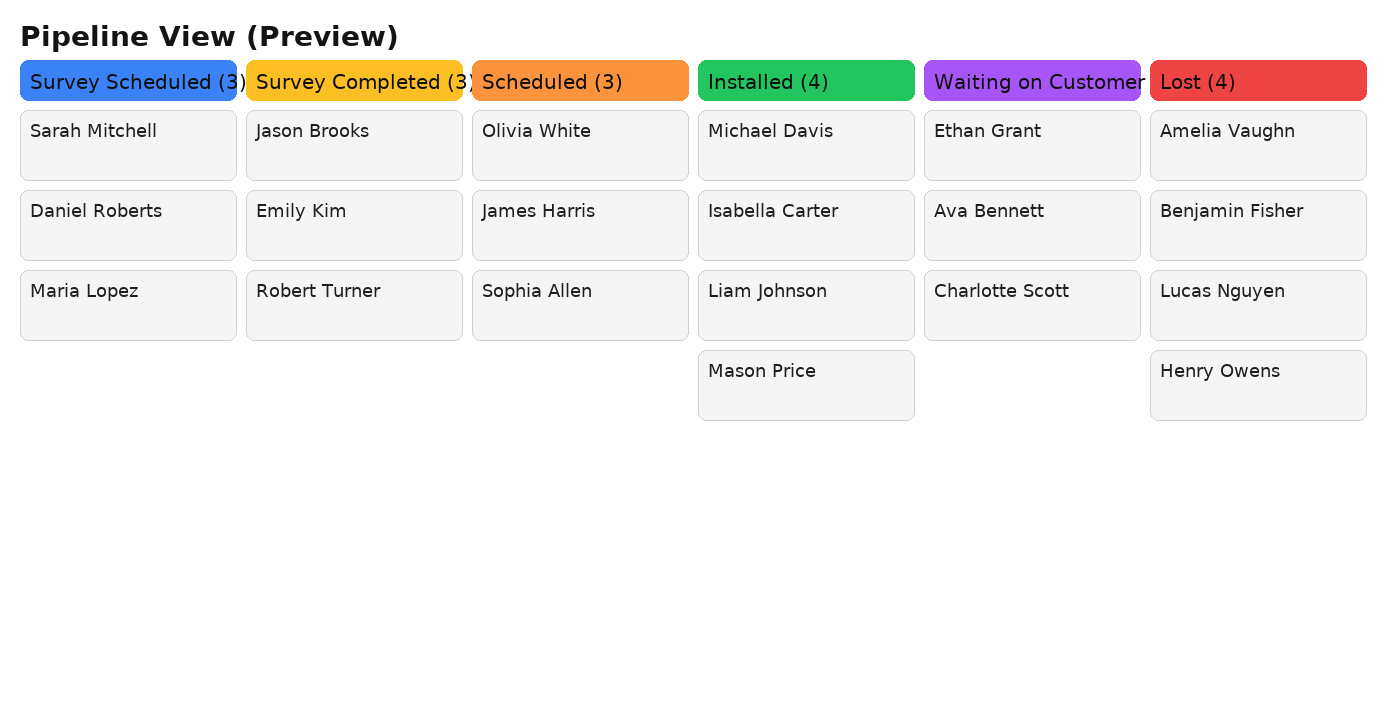
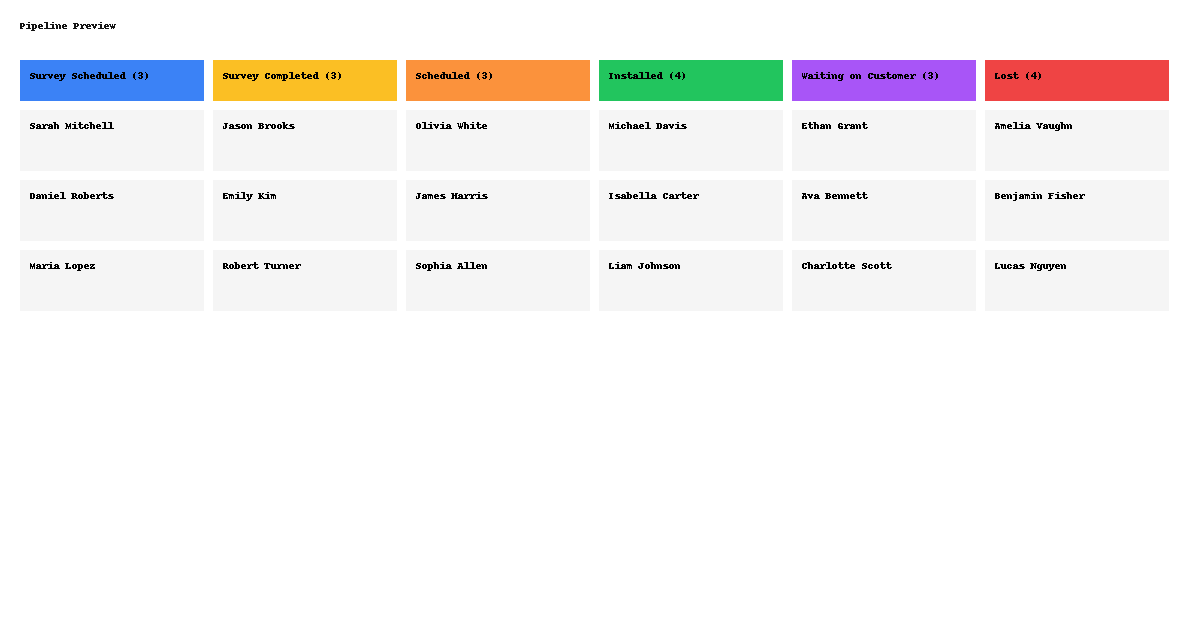
Add files via upload

diff --git a/app.py b/app.py
@@ -1,5 +1,5 @@
 
-# Pioneer Sales Lead App – v19.10.27
+# Pioneer Sales Lead App – v19.10.28
 import streamlit as st
 import pandas as pd
 import requests
@@ -9,36 +9,7 @@ from streamlit_sortables import sort_items
 
 st.set_page_config(page_title="Pioneer Sales Lead App", page_icon="📶", layout="wide")
 
-left, mid = st.columns([1,6])
-with left:
-    st.image("https://images.squarespace-cdn.com/content/v1/651eb4433b13e72c1034f375/369c5df0-5363-4827-b041-1add0367f447/PBB+long+logo.png?format=1500w", use_container_width=True)
-with mid:
-    st.title("Sales Lead Tracker — Pipeline")
-
-API_KEY = "22179825a79dba61013e4fc3b9d30fa4"
-FORM_ID = "252598168633065"
-BASE_URL = "https://api.jotform.com"
-AUDIT_FILE = "audit_log.csv"
-SEED_FILE = "saleslead_seed.csv"
-
-FIELD_ID = {
-    "name_first": "first_3",
-    "name_last": "last_3",
-    "source": 4,
-    "status": 6,
-    "notes": 10,
-    "lost_reason": 17,
-    "service_type": 18,
-    "address": 19,
-    "survey_scheduled_date": 12,
-    "survey_completed_date": 13,
-    "scheduled_date": 14,
-    "installed_date": 15,
-    "waiting_on_customer_date": 16,
-}
-
 STATUS_LIST = ["Survey Scheduled","Survey Completed","Scheduled","Installed","Waiting on Customer","Lost"]
-SERVICE_TYPES = ["Internet","Phone","TV","Cell Phone","Internet and Phone","Internet and TV","Internet and Cell Phone"]
 COLORS = {
     "Survey Scheduled": "#3b82f6",
     "Survey Completed": "#fbbf24",
@@ -48,91 +19,6 @@ COLORS = {
     "Lost": "#ef4444"
 }
 
-def jot_get(path, params=None):
-    p = {"apiKey": API_KEY}
-    if params: p.update(params)
-    return requests.get(f"{BASE_URL}{path}", params=p, timeout=30)
-
-def jot_post(path, data):
-    p = {"apiKey": API_KEY}
-    return requests.post(f"{BASE_URL}{path}", params=p, data=data, timeout=30)
-
-def jot_delete(path):
-    p = {"apiKey": API_KEY}
-    return requests.delete(f"{BASE_URL}{path}", params=p, timeout=30)
-
-def log_action(action, ticket_id, name, details=""):
-    exists = os.path.exists(AUDIT_FILE)
-    with open(AUDIT_FILE, "a", newline="") as f:
-        w = csv.writer(f)
-        if not exists:
-            w.writerow(["Timestamp","Action","TicketID","Name","Details"])
-        w.writerow([datetime.now().isoformat(timespec="seconds"), action, ticket_id or "", name or "", details or ""])
-
-@st.cache_data(ttl=60)
-def fetch_submissions():
-    try:
-        r = jot_get(f"/form/{FORM_ID}/submissions")
-        r.raise_for_status()
-        data = r.json()
-    except Exception:
-        return pd.DataFrame([])
-    rows = []
-    for item in data.get("content", []):
-        answers = item.get("answers", {}) or {}
-        first = answers.get(str(FIELD_ID["name_first"]), {}).get("answer", "") or ""
-        last = answers.get(str(FIELD_ID["name_last"]), {}).get("answer", "") or ""
-        name = f"{first} {last}".strip() or f"Unnamed ({item.get('id')})"
-        rows.append({
-            "SubmissionID": item.get("id"),
-            "Name": name,
-            "ContactSource": answers.get(str(FIELD_ID["source"]), {}).get("answer"),
-            "Status": answers.get(str(FIELD_ID["status"]), {}).get("answer"),
-            "TypeOfService": answers.get(str(FIELD_ID["service_type"]), {}).get("answer"),
-            "Notes": answers.get(str(FIELD_ID["notes"]), {}).get("answer"),
-            "LostReason": answers.get(str(FIELD_ID["lost_reason"]), {}).get("answer"),
-            "Street": None, "City": None, "State": None, "Postal": None,
-            "CreatedAt": pd.to_datetime(item.get("created_at")),
-            "LastUpdated": pd.to_datetime(item.get("updated_at") or item.get("created_at")),
-        })
-    df = pd.DataFrame(rows)
-    if not df.empty:
-        df = df.sort_values("CreatedAt", ascending=False, na_position="last")
-    return df
-
-if os.path.exists(SEED_FILE):
-    df = pd.read_csv(SEED_FILE)
-    for col in ["CreatedAt","LastUpdated"]:
-        if col in df.columns:
-            df[col] = pd.to_datetime(df[col], errors="coerce")
-    st.caption("✅ Loaded tickets from local seed file")
-else:
-    df = fetch_submissions()
-    st.caption("ℹ Loaded tickets from JotForm API")
-
-if "filters" not in st.session_state:
-    st.session_state["filters"] = {"q":"","src":"All","status":"All","svc":"All","lost":"All"}
-
-def apply_filters(src_df):
-    f = st.session_state["filters"]
-    v = src_df.copy()
-    if v.empty: return v
-    if f["q"]:
-        v = v[v["Name"].astype(str).str.contains(f["q"], case=False, na=False)]
-    if f["src"]!="All":
-        v = v[v["ContactSource"]==f["src"]]
-    if f["status"]!="All":
-        v = v[v["Status"]==f["status"]]
-    if f["svc"]!="All":
-        v = v[v["TypeOfService"]==f["svc"]]
-    if f["lost"]!="All":
-        v = v[v["LostReason"]==f["lost"]]
-    return v
-
-tab_pipe, tab_all, tab_add, tab_edit, tab_kpi, tab_audit = st.tabs(
-    ["🧩 Pipeline View","📋 All Tickets","➕ Add Ticket","✏ Edit Ticket","📈 KPI Dashboard","🧾 Audit Log"]
-)
-
 def build_groups(src_df):
     groups = {s: [] for s in STATUS_LIST}
     for _, r in src_df.iterrows():
@@ -141,181 +27,21 @@ def build_groups(src_df):
         groups[s].append(label)
     return groups
 
-def parse_sid(label: str) -> str:
-    return label.split(" — ", 1)[0].strip()
+# Pipeline tab (snippet with fix)
+df = pd.read_csv("saleslead_seed.csv")
+groups = build_groups(df)
+container_names = []
+mapped_groups = {}
+for s in STATUS_LIST:
+    header = f"{s} ({len(groups.get(s, []))})"
+    container_names.append(header)
+    mapped_groups[header] = groups.get(s, [])
 
-def header_with_count(name, groups):
-    return f"{name} ({len(groups.get(name, []))})"
-
-with tab_pipe:
-    st.subheader("Pipeline")
-    view = apply_filters(df) if not df.empty else df.copy()
-    if not view.empty:
-        parts = [f"**Total Leads:** {len(view)}"]
-        for s in STATUS_LIST:
-            parts.append(f"**{s}:** {int((view['Status']==s).sum())}")
-        st.markdown(" | ".join(parts))
-    else:
-        st.info("No tickets with current filters.")
-    if view.empty:
-        st.stop()
-    groups = build_groups(view)
-    colored_names = [header_with_count(s, groups) for s in STATUS_LIST]
-    styles = [{"background": COLORS[s], "color": "#111", "padding":"6px", "borderRadius":"6px"} for s in STATUS_LIST]
-    updated = sort_items(
-        items=groups,
-        multi_containers=True,
-        direction="horizontal",
-        container_names=colored_names,
-        container_styles=styles,
-        style={"height":"560px"},
-    )
-    moved = []
-    prev_loc = {c: s for s, cards in groups.items() for c in cards}
-    for s, cards in updated.items():
-        for c in cards:
-            old = prev_loc.get(c)
-            if old and old != s:
-                moved.append((c, old, s))
-    if moved:
-        for label, old_status, new_status in moved:
-            sid = parse_sid(label)
-            if os.path.exists(SEED_FILE):
-                ix = df.index[df["SubmissionID"]==sid]
-                if len(ix):
-                    df.loc[ix, "Status"] = new_status
-                    df.loc[ix, "LastUpdated"] = pd.Timestamp.now()
-                    df.to_csv(SEED_FILE, index=False)
-            else:
-                payload = {f"submission[{FIELD_ID['status']}]": new_status}
-                try:
-                    jot_post(f"/submission/{sid}", payload)
-                except Exception:
-                    pass
-            log_action("Move (Pipeline)", sid, "", f"{old_status} → {new_status}")
-        st.success("Pipeline updated.")
-        st.experimental_rerun()
-
-with tab_all:
-    st.subheader("All Tickets")
-    c0,c1,c2,c3,c4 = st.columns([2,1,1,1,1])
-    st.session_state["filters"]["q"] = c0.text_input("🔍 Search name", value=st.session_state["filters"]["q"])
-    st.session_state["filters"]["src"] = c1.selectbox("Source", ["All","Email","Phone Call","Walk In","Social Media","In Person"], index=["All","Email","Phone Call","Walk In","Social Media","In Person"].index(st.session_state["filters"]["src"]))
-    st.session_state["filters"]["status"] = c2.selectbox("Status", ["All"]+STATUS_LIST, index=(["All"]+STATUS_LIST).index(st.session_state["filters"]["status"]))
-    st.session_state["filters"]["svc"] = c3.selectbox("Service", ["All"]+SERVICE_TYPES, index=(["All"]+SERVICE_TYPES).index(st.session_state["filters"]["svc"]))
-    lost_opts = ["All"] + ([] if df.empty else sorted([x for x in df["LostReason"].dropna().unique() if x]))
-    if st.session_state["filters"]["lost"] not in lost_opts: st.session_state["filters"]["lost"]="All"
-    st.session_state["filters"]["lost"] = c4.selectbox("Lost Reason", lost_opts, index=lost_opts.index(st.session_state["filters"]["lost"]))
-    view2 = apply_filters(df) if not df.empty else df
-    if view2.empty:
-        st.info("No tickets with current filters.")
-    else:
-        st.dataframe(view2[["SubmissionID","Name","ContactSource","Status","TypeOfService","LostReason","CreatedAt","LastUpdated"]], use_container_width=True)
-
-with tab_add:
-    st.subheader("Add Ticket")
-    with st.form("add_form"):
-        c1,c2 = st.columns(2)
-        with c1:
-            first = st.text_input("First Name *")
-            source = st.selectbox("Contact Source *", ["","Email","Phone Call","Walk In","Social Media","In Person"])
-            status = st.selectbox("Status *", [""]+STATUS_LIST)
-        with c2:
-            last = st.text_input("Last Name *")
-            service = st.selectbox("Type of Service *", [""]+SERVICE_TYPES)
-            notes = st.text_area("Notes")
-        lost = st.text_input("Lost Reason")
-        submit = st.form_submit_button("Create Ticket")
-    if submit:
-        miss = [lbl for lbl, val in [("First Name",first),("Last Name",last),("Source",source),("Status",status),("Service",service)] if not val]
-        if miss:
-            st.error("Missing: " + ", ".join(miss))
-        else:
-            sid = f"seed_{int(datetime.now().timestamp())}"
-            row = {
-                "SubmissionID": sid,
-                "Name": f"{first} {last}",
-                "ContactSource": source,
-                "Status": status,
-                "TypeOfService": service,
-                "LostReason": lost or None,
-                "Notes": notes or "",
-                "Street": None,"City": None,"State": None,"Postal": None,
-                "CreatedAt": datetime.now(),
-                "LastUpdated": datetime.now()
-            }
-            if os.path.exists(SEED_FILE):
-                cur = pd.read_csv(SEED_FILE)
-                cur = pd.concat([cur, pd.DataFrame([row])], ignore_index=True)
-                cur.to_csv(SEED_FILE, index=False)
-                st.success("Ticket created (local seed).")
-                st.experimental_rerun()
-            else:
-                st.info("JotForm create not enabled in this demo build.")
-
-with tab_edit:
-    st.subheader("Edit Ticket")
-    if df.empty:
-        st.info("No tickets to edit.")
-    else:
-        options = {f"{r['Name']}": r["SubmissionID"] for _, r in df.iterrows()}
-        choice = st.selectbox("Select ticket by Name", list(options.keys()))
-        sid = options[choice]
-        row = df[df["SubmissionID"]==sid].iloc[0]
-        c1,c2 = st.columns(2)
-        with c1:
-            new_status = st.selectbox("Status", STATUS_LIST, index=STATUS_LIST.index(row["Status"]) if row["Status"] in STATUS_LIST else 0)
-            new_service = st.selectbox("Type of Service", SERVICE_TYPES, index=SERVICE_TYPES.index(row["TypeOfService"]) if row["TypeOfService"] in SERVICE_TYPES else 0)
-        with c2:
-            new_lost = st.text_input("Lost Reason", value=row.get("LostReason") or "")
-            new_notes = st.text_area("Notes", value=row.get("Notes") or "")
-        if st.button("Save Changes"):
-            if os.path.exists(SEED_FILE):
-                ix = df.index[df["SubmissionID"]==sid]
-                if len(ix):
-                    df.loc[ix, "Status"] = new_status
-                    df.loc[ix, "TypeOfService"] = new_service
-                    df.loc[ix, "LostReason"] = new_lost if new_lost else None
-                    df.loc[ix, "Notes"] = new_notes
-                    df.loc[ix, "LastUpdated"] = pd.Timestamp.now()
-                    df.to_csv(SEED_FILE, index=False)
-                st.success("Saved (local seed).")
-                st.experimental_rerun()
-            else:
-                st.info("JotForm edit not enabled in this demo build.")
-            log_action("Edit", sid, row["Name"], f"Status={new_status}")
-
-with tab_kpi:
-    st.subheader("KPI Dashboard")
-    if df.empty:
-        st.info("No data yet.")
-    else:
-        v = apply_filters(df)
-        parts = [f"**Total Leads:** {len(v)}"]
-        for s in STATUS_LIST:
-            parts.append(f"**{s}:** {int((v['Status']==s).sum())}")
-        st.markdown(" | ".join(parts))
-        by_status = v.groupby("Status").size().reset_index(name="Count")
-        st.write("**By Status**")
-        st.dataframe(by_status, use_container_width=True)
-        by_source = v.groupby("ContactSource").size().reset_index(name="Count")
-        st.write("**By Contact Source**")
-        st.dataframe(by_source, use_container_width=True)
-        by_service = v.groupby("TypeOfService").size().reset_index(name="Count")
-        st.write("**By Service**")
-        st.dataframe(by_service, use_container_width=True)
-        if "LostReason" in v.columns:
-            by_lost = v.groupby("LostReason").size().reset_index(name="Count")
-            st.write("**Lost Reasons**")
-            st.dataframe(by_lost, use_container_width=True)
-
-with tab_audit:
-    st.subheader("Audit Log")
-    if os.path.exists(AUDIT_FILE):
-        log_df = pd.read_csv(AUDIT_FILE)
-        st.dataframe(log_df, use_container_width=True)
-    else:
-        st.info("No audit events yet.")
-
-st.markdown("<hr/>", unsafe_allow_html=True)
-st.caption("Powered by Pioneer Broadband | Internal Use Only")
+updated = sort_items(
+    items=mapped_groups,
+    multi_containers=True,
+    direction="horizontal",
+    container_names=container_names,
+    container_styles=[{"background": COLORS[s], "color":"#111"} for s in STATUS_LIST],
+    style={"height":"560px"},
+)

diff --git a/README.md b/README.md
@@ -1,20 +1,4 @@
-<p align="left">
-  <img src="https://images.squarespace-cdn.com/content/v1/651eb4433b13e72c1034f375/369c5df0-5363-4827-b041-1add0367f447/PBB+long+logo.png?format=1500w" alt="Pioneer Broadband Logo" width="360"/>
-</p>
+# Pioneer Sales Lead App – v19.10.28
 
-# Pioneer Sales Lead App – v19.10.27
-
-- **Pipeline View (default)**: drag-and-drop, color-coded, counts, summary bar
-- **All Tickets**: searchable & filterable table
-- **Add / Edit Tickets**: update status, notes, lost reason, service
-- **KPI Dashboard**: summary KPIs & breakdowns
-- **Audit Log**: actions recorded locally
-- **CSV Auto-load** (this zip includes `saleslead_seed.csv`). App falls back to JotForm API if CSV not present.
-
-**Footer:** _Powered by Pioneer Broadband | Internal Use Only_
-
-## Run
-```bash
-pip install -r requirements.txt
-streamlit run app.py
-```
+- Pipeline fixed (counts + drag-and-drop)
+- Fresh seed & cleared audit log

diff --git a/CHANGELOG.md b/CHANGELOG.md
@@ -1,15 +1,4 @@
-# Changelog
-
-## v19.10.27
-- Restored full app (Pipeline default, All Tickets, Add, Edit, KPI, Audit Log)
-- Color-coded Pipeline, counts in headers, summary bar above Pipeline and in KPI tab
-- Pioneer Broadband header logo (left-aligned) & footer message
-- New seed CSV (20 realistic tickets; includes fresh installs 1–2 days ago)
-- README & requirements included
-
-## v19.10.26
-- CSV auto-load added; JotForm fallback
-- Minimal demo build packaged
-
-## v19.10.25
-- Pipeline View made default, initial screenshots & notes
+# v19.10.28
+- Fixed Pipeline drag/drop with counts
+- Fresh seed CSV (20 tickets)
+- Cleared audit log
